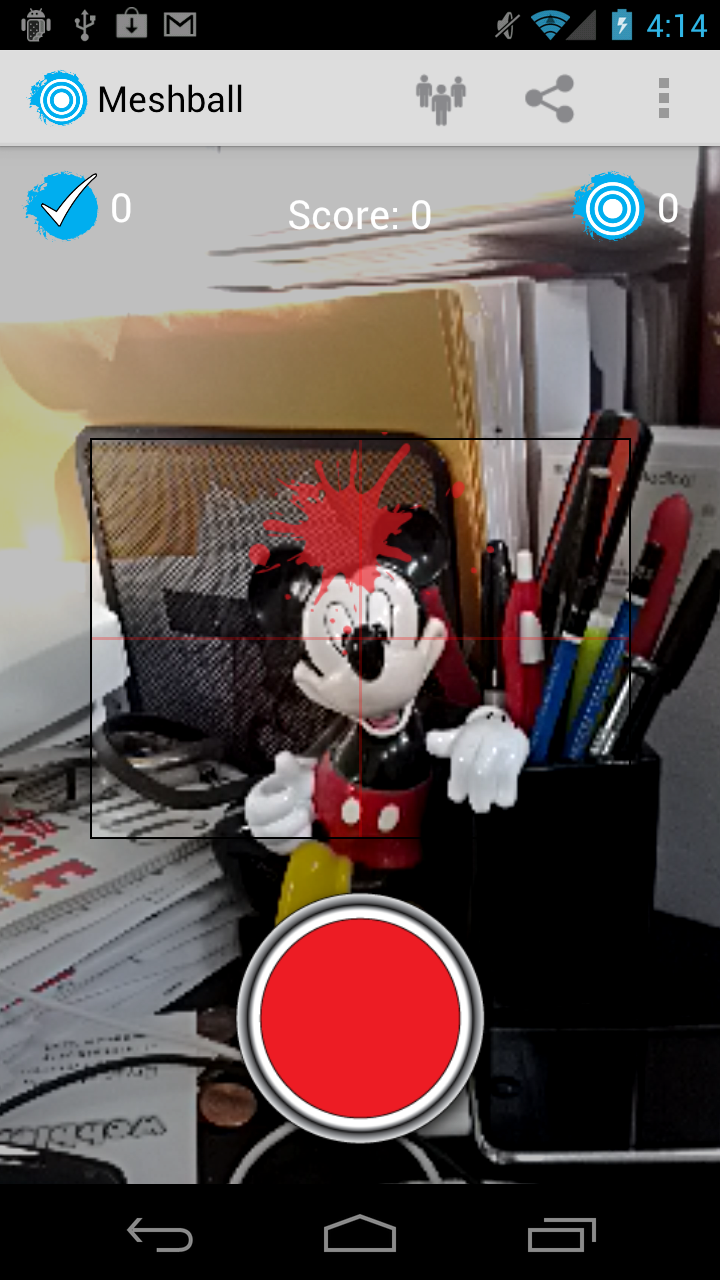
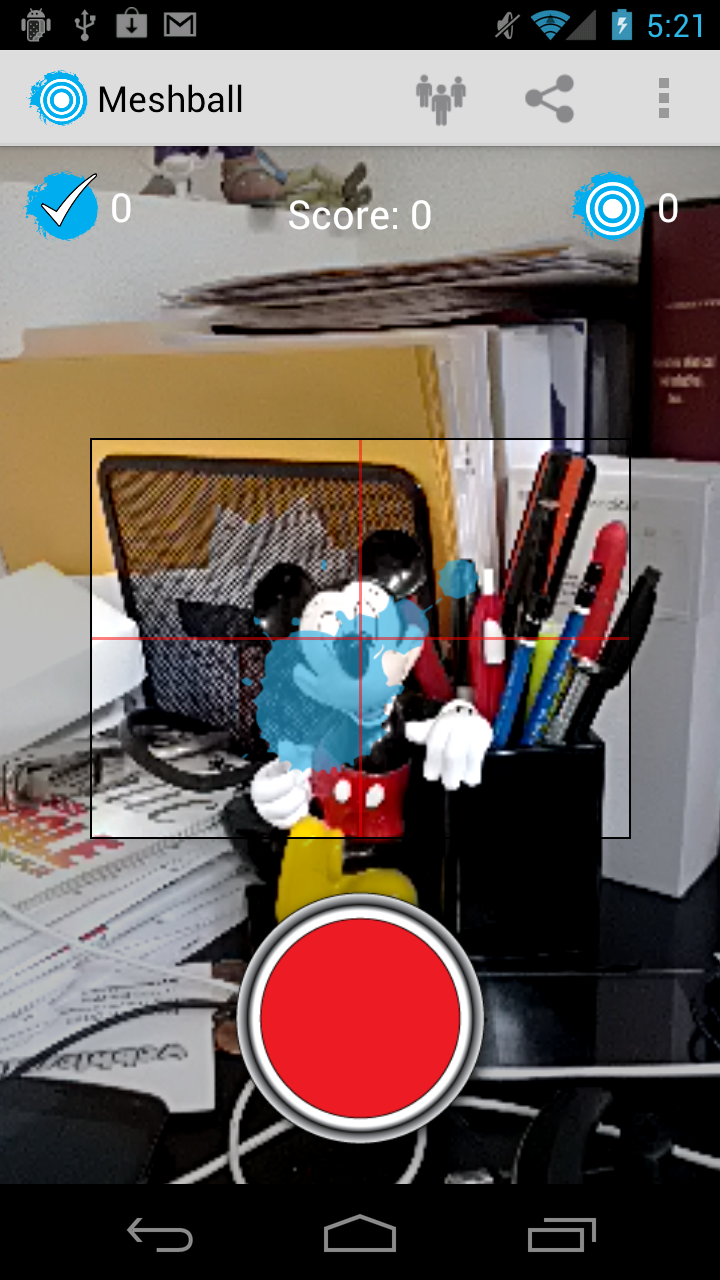
added more screen shots

diff --git a/Meshball/src/com/samsung/meshball/ViewfinderView.java b/Meshball/src/com/samsung/meshball/ViewfinderView.java
@@ -97,7 +97,7 @@ public final class ViewfinderView
         if ( splatter != null ) {
 
             float left = (width / 2) - (splatter.getWidth() / 2);
-            float top = (height / 2) - splatter.getHeight();
+            float top = (height / 2) - (splatter.getHeight() / 2);
 
             paint.setAlpha(CURRENT_POINT_OPACITY);
             canvas.drawBitmap( splatter, left, top, paint );
